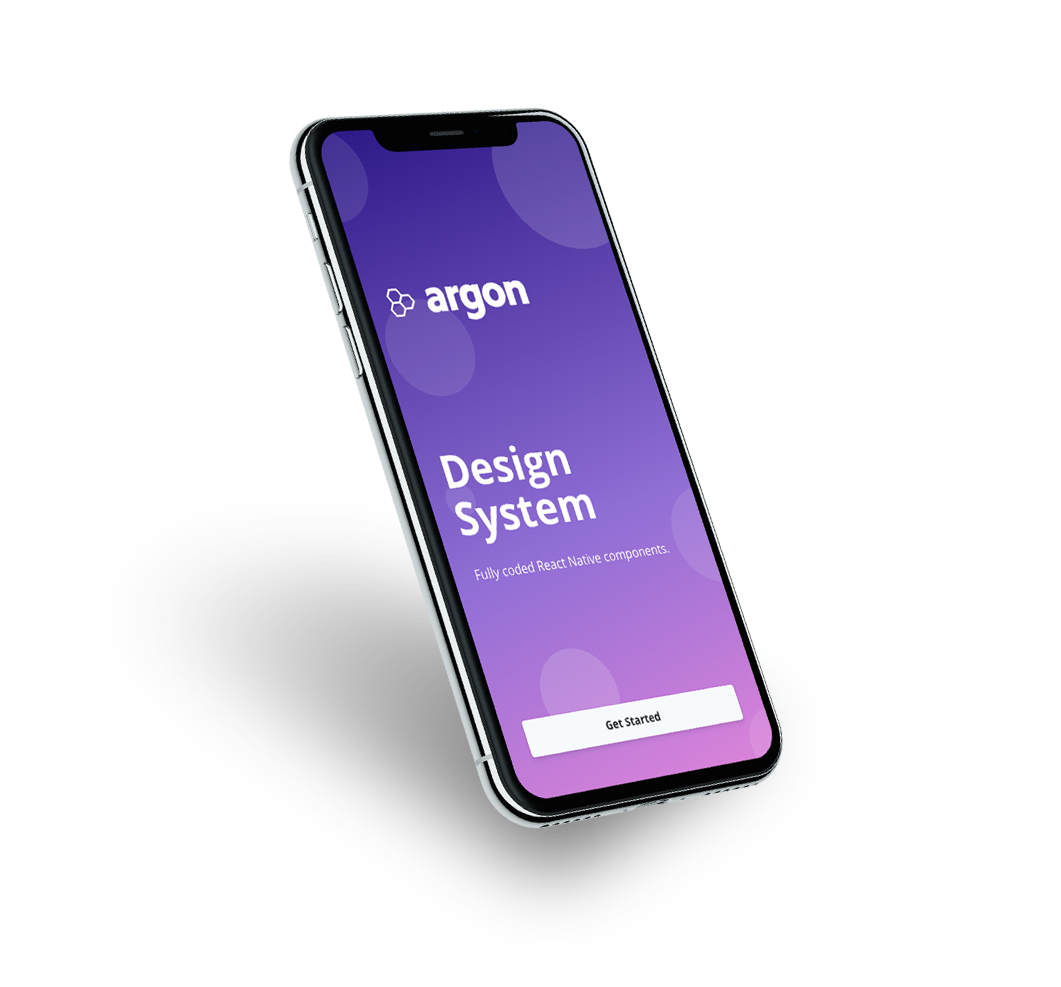
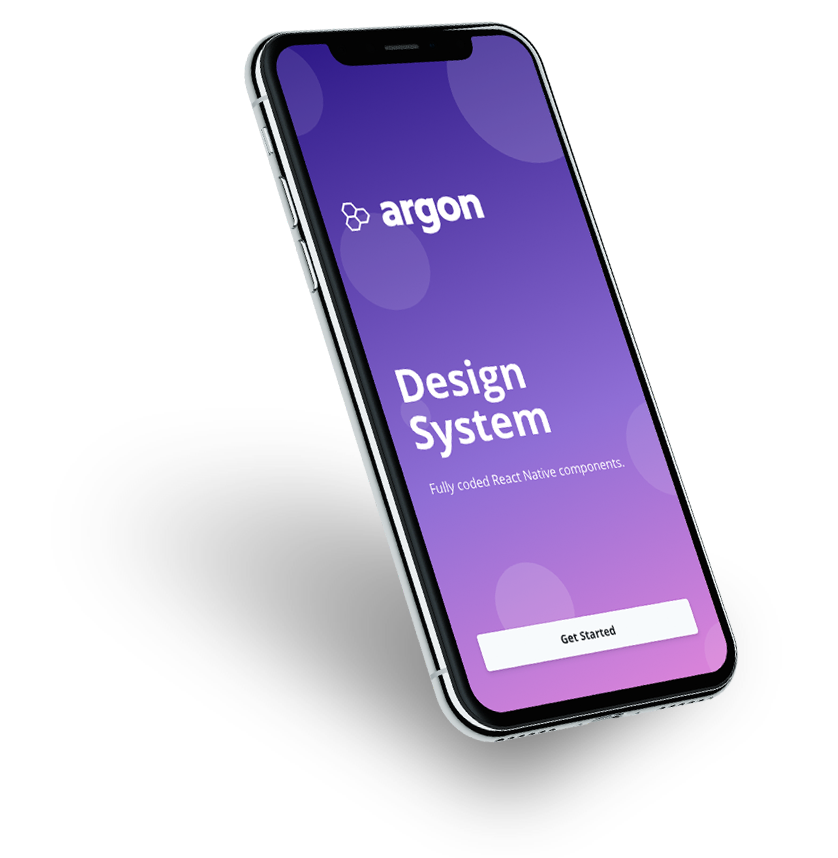
Resize mobile images

Changed region(s): [[0.2482, 0.0, 0.8998, 0.9394]]

diff --git a/src/components/Header.js b/src/components/Header.js
@@ -53,8 +53,8 @@ const Header = ({ headerRef }) => {
         </div>
         <div className="flex justify-center items-center flex-1">
           <div className="flex justify-center items-center ml-20 relative w-full h-[500px]">
-            <img src="./assets/mobile-1.png" width="auto" height={600} className="absolute right-0 translate-x-[20%]" alt="phone first"  />
-            <img src="./assets/mobile-2.png" width="auto" height={600} className="absolute z-30 right-0 -translate-x-[15%]" alt="phone second" />
+            <img src="./assets/mobile-1.png" width="auto" height={500} className="absolute right-0 translate-x-[30%]" alt="phone first"  />
+            <img src="./assets/mobile-2.png" width="auto" height={500} className="absolute z-30 right-0 -translate-x-[40%]" alt="phone second" />
           </div>
         </div>
       </div>
